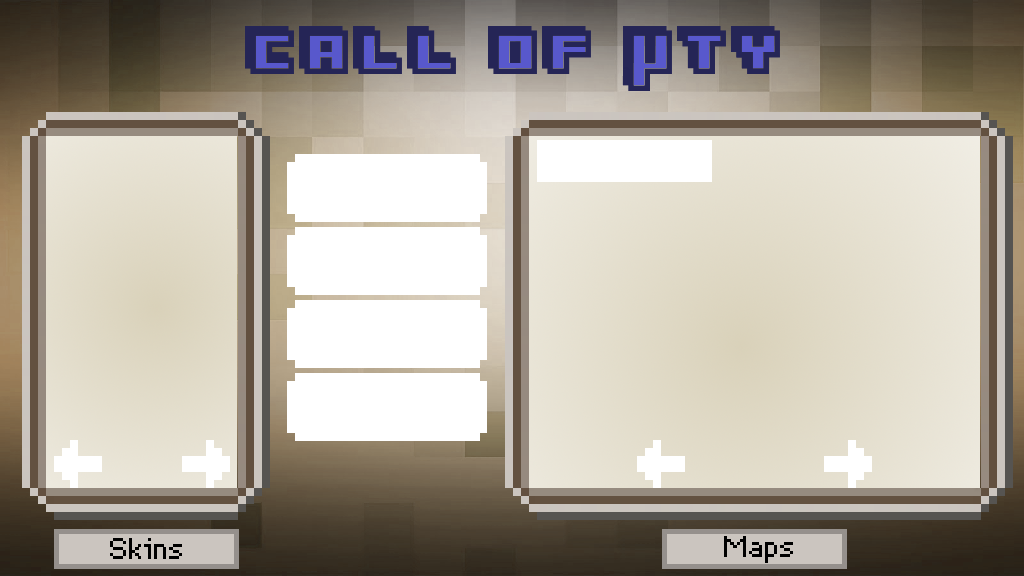
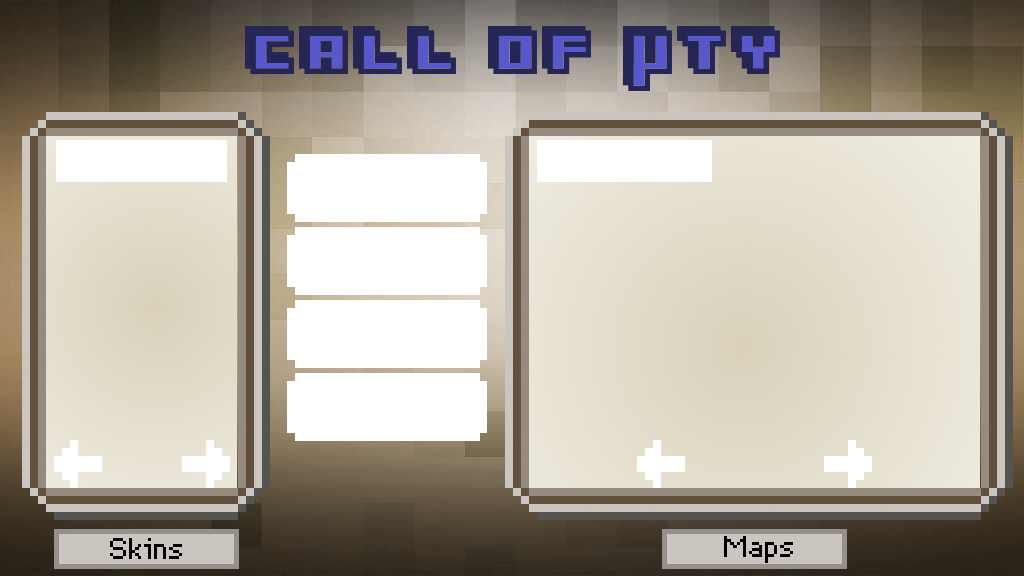
Added usernames

Changed region(s): [[0.0312, 0.2188, 0.2188, 0.3438]]

diff --git a/src/callofmuty/GamePanel.java b/src/callofmuty/GamePanel.java
@@ -1,6 +1,8 @@
 package callofmuty;
 
+import java.awt.Color;
 import java.awt.Dimension;
+import java.awt.Font;
 import java.awt.Graphics;
 import java.awt.Graphics2D;
 import java.awt.RenderingHints;
@@ -15,9 +17,11 @@ import java.util.ArrayList;
 import javax.swing.AbstractAction;
 import javax.swing.ImageIcon;
 import javax.swing.JButton;
+import javax.swing.JComponent;
 import javax.swing.JFileChooser;
 import javax.swing.JOptionPane;
 import javax.swing.JPanel;
+import javax.swing.JTextField;
 import javax.swing.KeyStroke;
 
 public class GamePanel extends JPanel{
@@ -48,7 +52,7 @@ public class GamePanel extends JPanel{
     private long playerListUpdateTime;
     private SQLManager sql; 
     private boolean isConnected;
-    private ArrayList <JButton> MMbuttons, MEbuttons, PGbuttons;
+    private ArrayList <JComponent> MMbuttons, MEbuttons, PGbuttons;
     private ArrayList<Bullet> otherPlayersBullets;
     GameTimer timer;
     
@@ -118,9 +122,9 @@ public class GamePanel extends JPanel{
     
     private void buildInterface(){
         setLayout(null);
-        MMbuttons = new ArrayList<JButton>(); //MM : Main menu
-        MEbuttons = new ArrayList<JButton>(); //ME : Map Editor
-        PGbuttons = new ArrayList<JButton>(); // Pre game
+        MMbuttons = new ArrayList<JComponent>(); //MM : Main menu
+        MEbuttons = new ArrayList<JComponent>(); //ME : Map Editor
+        PGbuttons = new ArrayList<JComponent>(); // Pre game
         
         // Main menu interface
         JButton connectButton = new JButton();
@@ -213,6 +217,18 @@ public class GamePanel extends JPanel{
         add(mapEditorButton);
         MMbuttons.add(mapEditorButton);
         
+        JTextField usernameField = new JTextField("Username");
+        usernameField.setBounds(56, 140, 172, mapEditorIcon.getIconHeight()+1);
+        usernameField.setEditable(true);
+        usernameField.setHorizontalAlignment(JTextField.CENTER);
+        usernameField.setFont(new Font("TimesRoman", Font.BOLD+Font.ITALIC, 18));
+        usernameField.setBackground(new Color(230,226,211));//(new Color(221,214,192));
+        usernameField.setForeground(Color.DARK_GRAY);
+        usernameField.setBorder(null);
+        usernameField.setVisible(true);
+        add(usernameField);
+        MMbuttons.add(usernameField);
+        
         connectButton.addActionListener(new ActionListener() {
             public void actionPerformed(ActionEvent e) {
                 initialiseGame(false);
@@ -273,6 +289,12 @@ public class GamePanel extends JPanel{
         mapEditorButton.addActionListener(new ActionListener() {
             public void actionPerformed(ActionEvent e) {
                 setState(MAP_EDITOR);
+            }
+        });
+        
+        usernameField.addActionListener(new ActionListener() {
+            public void actionPerformed(ActionEvent e) {
+                player.setName(usernameField.getText());
             }
         });
         
@@ -533,9 +555,6 @@ public void paint(Graphics g) {
             if (confirm == 0) {
                 setState(MAIN_MENU);
                 endGame();
-                if (pressedButtons.contains(KeyEvent.VK_ESCAPE)){
-                    pressedButtons.remove(KeyEvent.VK_ESCAPE);
-                }
             }
         }
     }
@@ -607,47 +626,47 @@ public void paint(Graphics g) {
         map.setDrawingParameters(gameState);
         switch(gameState){
             case MAIN_MENU:
-                for (JButton button : MMbuttons){
-                    button.setVisible(true);
+                for (JComponent component : MMbuttons){
+                    component.setVisible(true);
                 }
-                for (JButton button : MEbuttons){
-                    button.setVisible(false);
+                for (JComponent component : MEbuttons){
+                    component.setVisible(false);
                 }
-                for (JButton button : PGbuttons){
-                    button.setVisible(false);
+                for (JComponent component : PGbuttons){
+                    component.setVisible(false);
                 }
                 break;
             case MAP_EDITOR:
-                for (JButton button : MMbuttons){
-                    button.setVisible(false);
+                for (JComponent component : MMbuttons){
+                    component.setVisible(false);
                 }
-                for (JButton button : MEbuttons){
-                    button.setVisible(true);
+                for (JComponent component : MEbuttons){
+                    component.setVisible(true);
                 }
-                for (JButton button : PGbuttons){
-                    button.setVisible(false);
+                for (JComponent component : PGbuttons){
+                    component.setVisible(false);
                 }
                 break;
             case PRE_GAME:
-                for (JButton button : MMbuttons){
-                    button.setVisible(false);
+                for (JComponent component : MMbuttons){
+                    component.setVisible(false);
                 }
-                for (JButton button : MEbuttons){
-                    button.setVisible(false);
+                for (JComponent component : MEbuttons){
+                    component.setVisible(false);
                 }
-                for (JButton button : PGbuttons){
-                    button.setVisible(isHost);
+                for (JComponent component : PGbuttons){
+                    component.setVisible(isHost);
                 }
                 break;
             case IN_GAME:
-                for (JButton button : MMbuttons){
-                    button.setVisible(false);
+                for (JComponent component : MMbuttons){
+                    component.setVisible(false);
                 }
-                for (JButton button : MEbuttons){
-                    button.setVisible(false);
+                for (JComponent component : MEbuttons){
+                    component.setVisible(false);
                 }
-                for (JButton button : PGbuttons){
-                    button.setVisible(false);
+                for (JComponent component : PGbuttons){
+                    component.setVisible(false);
                 }
                 timer.update();
         }
